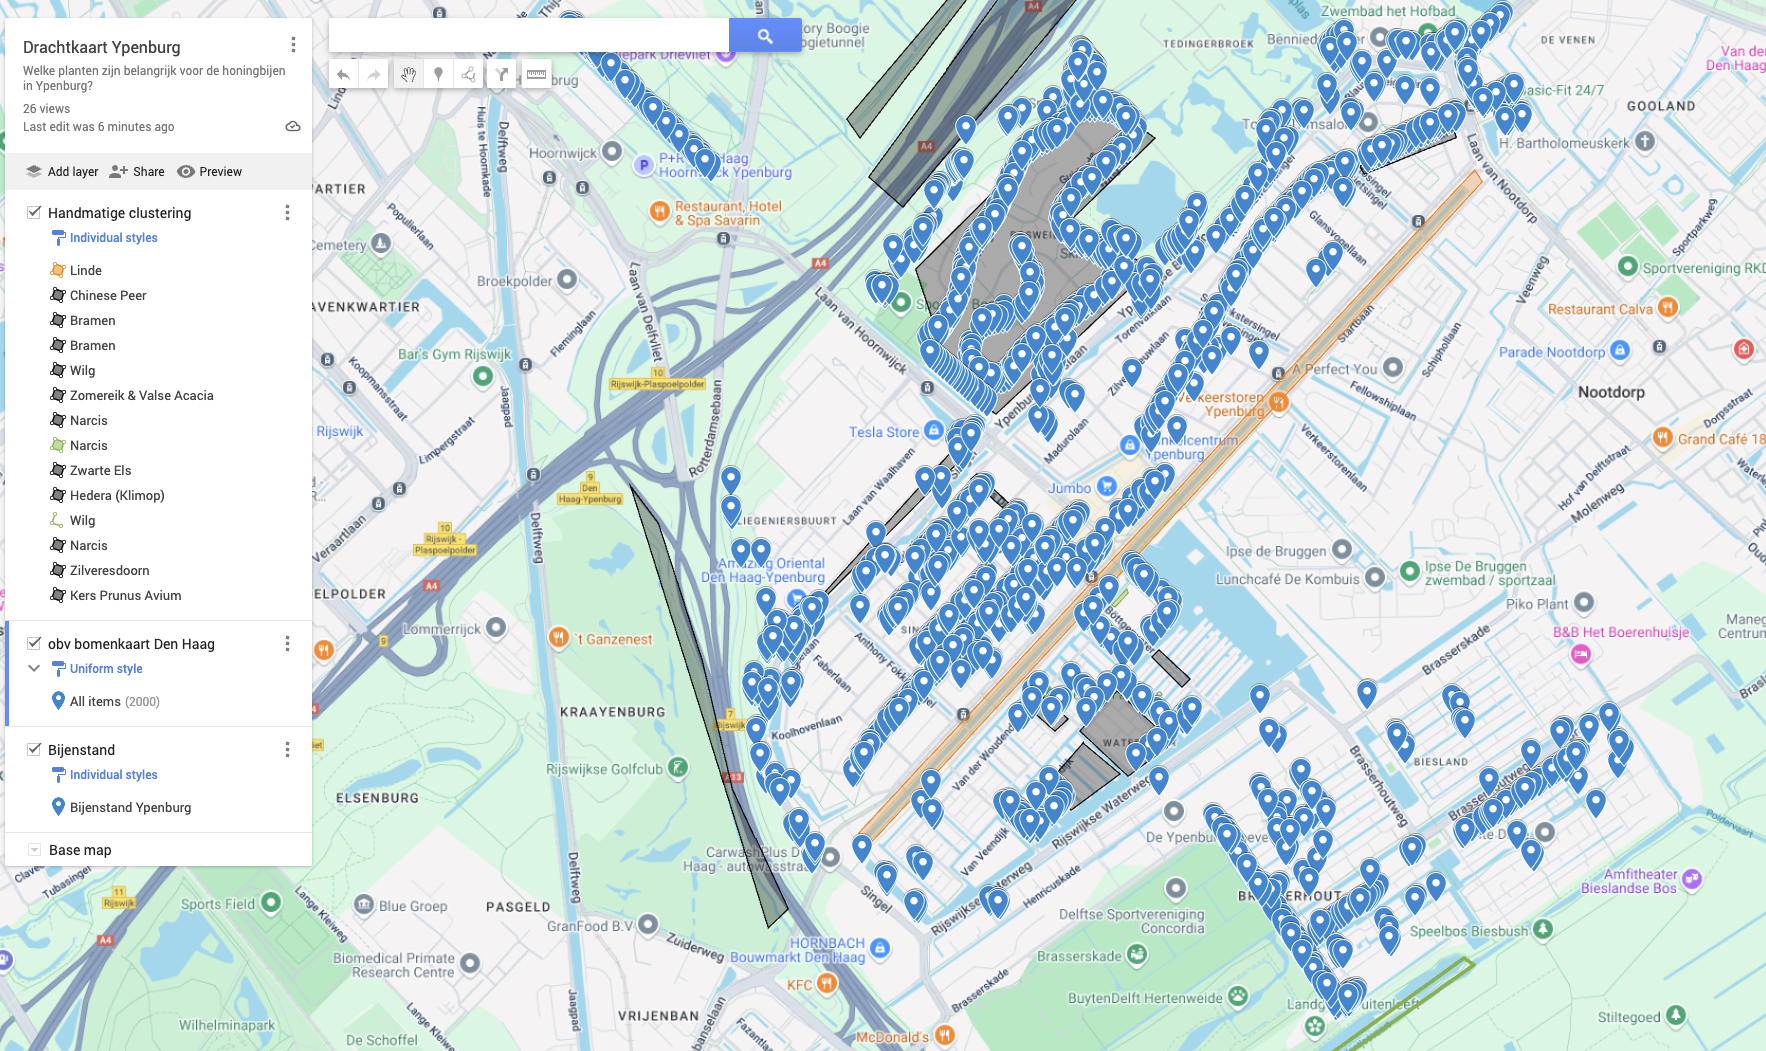
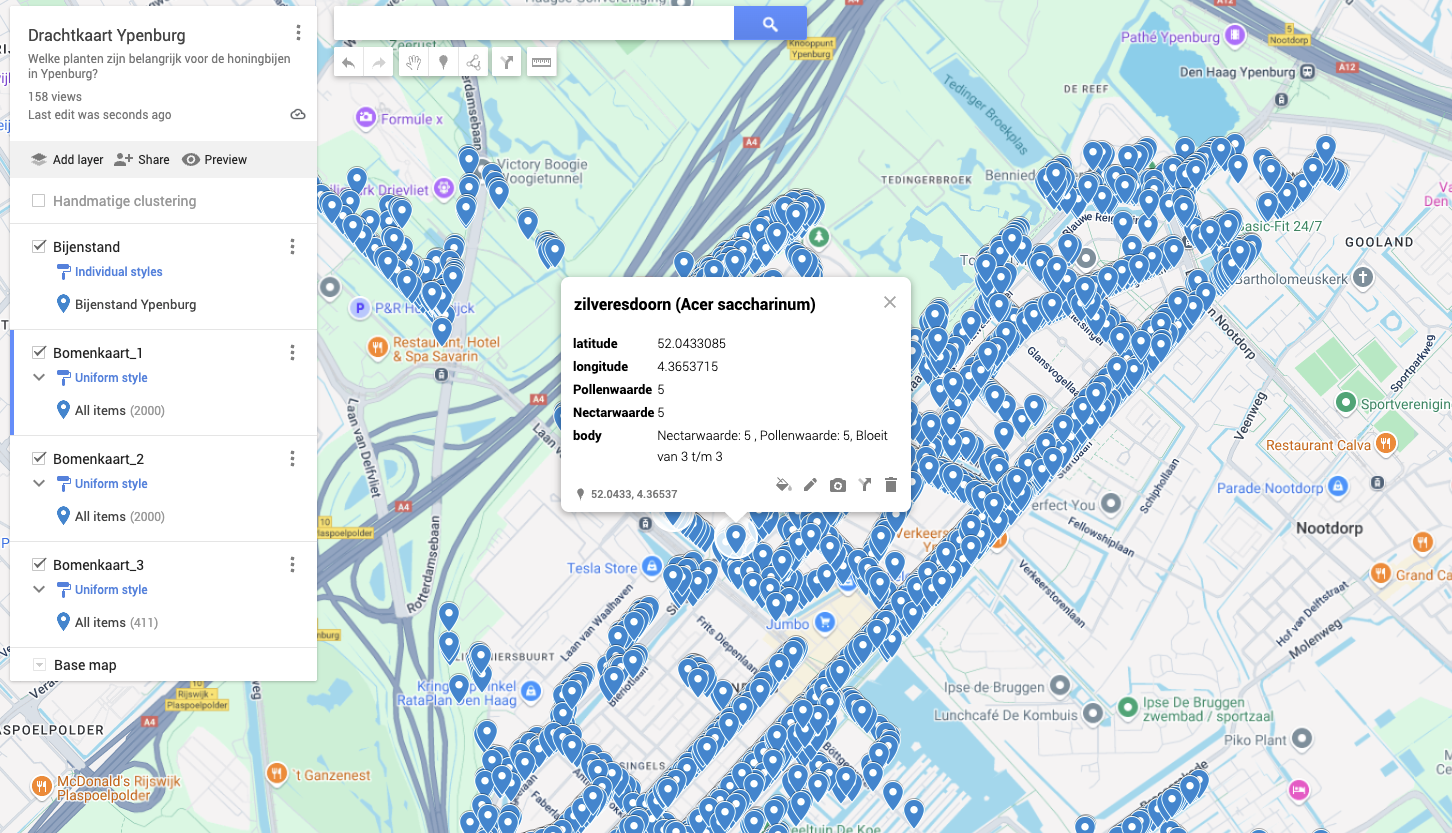
updated the scripts, cleanup

diff --git a/readme.md b/readme.md
@@ -12,6 +12,21 @@ Combinatie van de bomenkaarten delft, den haag (nootdorp?) en de drachtplanten i
 - [] TODO - import in google maps is max 2000 datapunten per layer, max 10 layers totaal 10.000 datapunten -> clusteren?
   - specs KML layer om shapes te importeren? https://developers.google.com/maps/documentation/javascript/kmllayer?csw=1 
 
+## Setup
+
+- Download the tree info from den haag
+    - https://denhaag.dataplatform.nl/#/data?autocomplete_field=(bomen) // https://denhaag.dataplatform.nl/#/data/77879f91-3d48-47dd-b33d-9e86ae5d99de
+    - put the json file from den haag `bomen-json.json` in the `\source` folder
+- Download the tree infrom from Delft
+    - https://openbomenkaart.org/data/trees_delft.json and put it in the `\source` folder
+- Download the drachtplanten table information from Imkerpedia - https://www.imkerpedia.nl/wiki/index.php/Drachtplanten
+    - take the table and convert it to CSV using Excel manually and store it as `\source\drachtplanten-imkerpedia.csv`
+    - convert it to json `csvjson drachtplanten-imkerpedia.csv | jq '.' > drachtplanten-imkerpedia.json`
+    - extract the ids of the drachtplanten `jq '[.[]."Latijnse naam"]' drachtplanten-imkerpedia.json . drachtplanten-ids.json`
+    - cleanup the nectarwaarde/pollenwaarde fields to only contain digits
+        - `jq 'map(.Nectarwaarde |= gsub("[^0-9]+"; ""))' drachtplanten-imkerpedia.json | jq 'map(.Pollenwaarde |= gsub("[^0-9]+"; ""))' > drachtplanten-imkerpedia-cleanedup.json`
+
+
 ## Den Haag Bomen Data
 
 
@@ -39,15 +54,6 @@ https://denhaag.dataplatform.nl/#/data/77879f91-3d48-47dd-b33d-9e86ae5d99de
 
 ### dmv jq filteren op enkel regio ypenburg
 
-filteren van 
-type.features
-			based on gemoetry.coordinates [x, y]
-
-```
-jq '.features[]' bomen-json.json
-jq '.features | map(select(.geometry.coordinates[0] >= 83395 and .geometry.coordinates[0] <= 87537 and .geometry.coordinates[1] >= 449244 and .geometry.coordinates[1] <= 452175))' bomen-json.json
-```
-
 converteren coordinaten -> https://benhup.com/tools/convert-coordinates/
 
 topleft: 52.05325316920707, 4.3431938539781525
@@ -55,80 +61,6 @@ topleft: 52.05325316920707, 4.3431938539781525
 
 bottom right: 52.02743574217603, 4.404156672597446
 	RD => 87537 449244
-
-
-`jq '.features | map(select(.geometry.coordinates[0] >= 83395 and .geometry.coordinates[0] <= 87537 and .geometry.coordinates[1] >= 449244 and .geometry.coordinates[1] <= 452175))' bomen-json.json > bomenkaart-ypenburg.json`
-
-### filteren bomen obv waarde voor bijen
-
-gebruik pollen tabel imkerpedia - https://www.imkerpedia.nl/wiki/index.php/Drachtplanten
-yank table and put it into a csv
-
-### opschonene bomen namen voor betere matching
-
-*TODO*
-
-bv "Tilia x europaea 'Euchlora'" fixxen
-
-alles tussen '' weghalen
-alles tussen () weghalen
-training spaces weghalen
-```
-jq 'select(.) | map(.properties.BOOMSOORT_WETENSCHAPPELIJ |= gsub("\\([^)]*\\)"; ""))' bomenkaart-ypenburg.json \
-    | jq "map(.properties.BOOMSOORT_WETENSCHAPPELIJ |= gsub(\"'[^']*'\"; \"\"))" \
-    | jq 'map(.properties.BOOMSOORT_WETENSCHAPPELIJ |= gsub("^\\s+|\\s+$"; ""))' \
-    > bomenkaart-cleanedup-ypenburg.json
-```
-
-
-
-
-### filteren bomen op basis van aanwezigheid in drachtplanten lijst
-
-`jq --slurpfile ids drachtplanten-ids.json 'map(select(.properties.BOOMSOORT_WETENSCHAPPELIJ as $id | $ids[0] | index($id)))' bomenkaart-cleanedup-ypenburg.json > bomenkaart-ypenburg-filtered.json`
-
-### converteren drachtplanten csv naar json
-
-`csvjson drachtplanten-imkerpedia.csv | jq '.' > drachtplanten-imkerpedia.json` 
-
-
-### toevoegen drachtinformatie aan bomenkaart ypenburg
-
-```
-jq --slurpfile enrichment drachtplanten-imkerpedia.json 'map(. as $item |
-       ($enrichment[0][] | select(.["Latijnse naam"] == $item.properties.BOOMSOORT_WETENSCHAPPELIJ)) as $match |
-       if $match then
-           $item + {
-               properties: ($item.properties + {
-                   Nectarwaarde: $match.Nectarwaarde,
-                   Pollenwaarde: $match.Pollenwaarde,
-                   SB: $match.SB,
-                   EB: $match.EB
-               })
-           }
-       else
-           $item
-       end
-   )' bomenkaart-ypenburg-filtered.json > bomenkaart-ypenburg-filtered-enriched.json
-```
-### bomenlijst plat slaan om te importeren in google maps als csv
-
-
-jq 'map({
-  coordinateRD: "\(.geometry.coordinates[1]) \(.geometry.coordinates[0])",
-  title: "\(.properties.BOOMSOORT_NEDERLANDS) (\(.properties.BOOMSOORT_WETENSCHAPPELIJ))",
-  body: "Nectarwaarde: \(.properties.Nectarwaarde) , Pollenwaarde: \(.properties.Pollenwaarde), Bloeit van \(.properties.SB) t/m \(.properties.EB)",
-})' bomenkaart-ypenburg-filtered-enriched.json > bomenkaart-ypenburg-prep4export-flattened.json
-
-
-### cleanup: rijksdriehoek omzetten naar lat/lon coordinaten voor google maps
-
-cp bomenkaart-ypenburg-prep4export-flattened.json ../RijksDriehoekConverter
-cd ../RijksDriehoekConverter
-ts-node index.ts > bomenkaart-ypenburg-prep4export-Wgs84-flattened.json
-cp bomenkaart-ypenburg-prep4export-Wgs84-flattened.json ../source
-cd ../source
-
 
 ## Delft Bomen Data
 
@@ -140,66 +72,7 @@ links onder coordinaat = 52.02691, 4.34384 & rechts boven coordinaat = 52.05377,
 
 `jq '.elements | map(select(.lat >= 52.02691 and .lat <= 52.05377 and .lon >= 4.34384 and .lon <= 4.40361))' trees_delft.json > filtered-local-trees-delft.json`
 
-### convert naming of trees that mismatch the drachtplanten list
-
-// remove everything between ''
-// remove everythign between ()
-// remove any trailing spaces
-Aesculus carnea => Aesculus x carnea
-Tilia europaea 'Zwarte Linde' => Tilia x europaea
-
-
-```
-jq 'select(.) | map(.tags.species |= gsub("\\([^)]*\\)"; ""))' filtered-local-trees-delft.json \
-    | jq "map(.tags.species |= gsub(\"'[^']*'\"; \"\"))" \
-    | jq 'map(.tags.species |= gsub("^\\s+|\\s+$"; ""))' \
-    | jq 'map(if .tags.species == "Aesculus carnea" then .tags.species = "Aesculus x carnea" else . end)' \
-    | jq 'map(if .tags.species == "Tilia europaea" then .tags.species = "Tilia x europaea" else . end)' \
-    > filtered-cleanup-local-trees-delft.json
-```
-
-### remove all non-drachtplanten from the list
-
-`jq --slurpfile ids drachtplanten-ids.json 'map(select(.tags.species as $id | $ids[0] | index($id)))' filtered-cleanup-local-trees-delft.json > filtered-only-drachtplanten-local-trees-delft.json`
-
-### enrich pollen information
-
-jq --slurpfile enrichment drachtplanten-imkerpedia.json 'map(. as $item |
-       ($enrichment[0][] | select(.["Latijnse naam"] == $item.tags.species)) as $match |
-       if $match then
-           $item + {
-               tags: ($item.tags + {
-                   Nectarwaarde: $match.Nectarwaarde,
-                   Pollenwaarde: $match.Pollenwaarde,
-                   SB: $match.SB,
-                   EB: $match.EB,
-                   BOOMSOORT_NEDERLANDS: $match."Nederlandse naam"
-               })
-           }
-       else
-           $item
-       end
-   )' filtered-only-drachtplanten-local-trees-delft.json > filtered-only-drachtplanten-local-trees-delft-enriched.json
-
-### map trees to format that we need
-
-jq 'map({ 
-    latitude: .lat, 
-    longitude: .lon, 
-    title: "\(.tags.BOOMSOORT_NEDERLANDS) (\(.tags.species))",
-    body: "Nectarwaarde: \(.tags.Nectarwaarde), Pollenwaarde: \(.tags.Pollenwaarde), Bloeit van \(.tags.SB) t/m \(.tags.EB)" 
-    })' filtered-only-drachtplanten-local-trees-delft-enriched.json > output-delft-trees-formatted.json
-
-
-## MERGE DEN HAAG + DELFT 
-
-After converting rijkds driehoek also to lat lon using typescript
-
-jq -s 'add' output-delft-trees-formatted.json bomenkaart-ypenburg-prep4export-Wgs84-flattened.json > merged-output-delft-denhaag.json
-
-
 ## convert to CSV output and import into google maps
-`jq -r '(.[0] | keys_unsorted) as $keys | $keys, map([.[ $keys[] ]])[] | @csv' merged-output-delft-denhaag.json > merged-output-delft-denhaag.csv`
 
 import the CSV with markers into google maps -> https://www.google.com/maps/d/u/0/edit?hl=en&mid=1rEXjvP8rAoK41iPF5tkkcRLcWMVaP8c&ll=52.03850518347734%2C4.366191369035044&z=15
 
